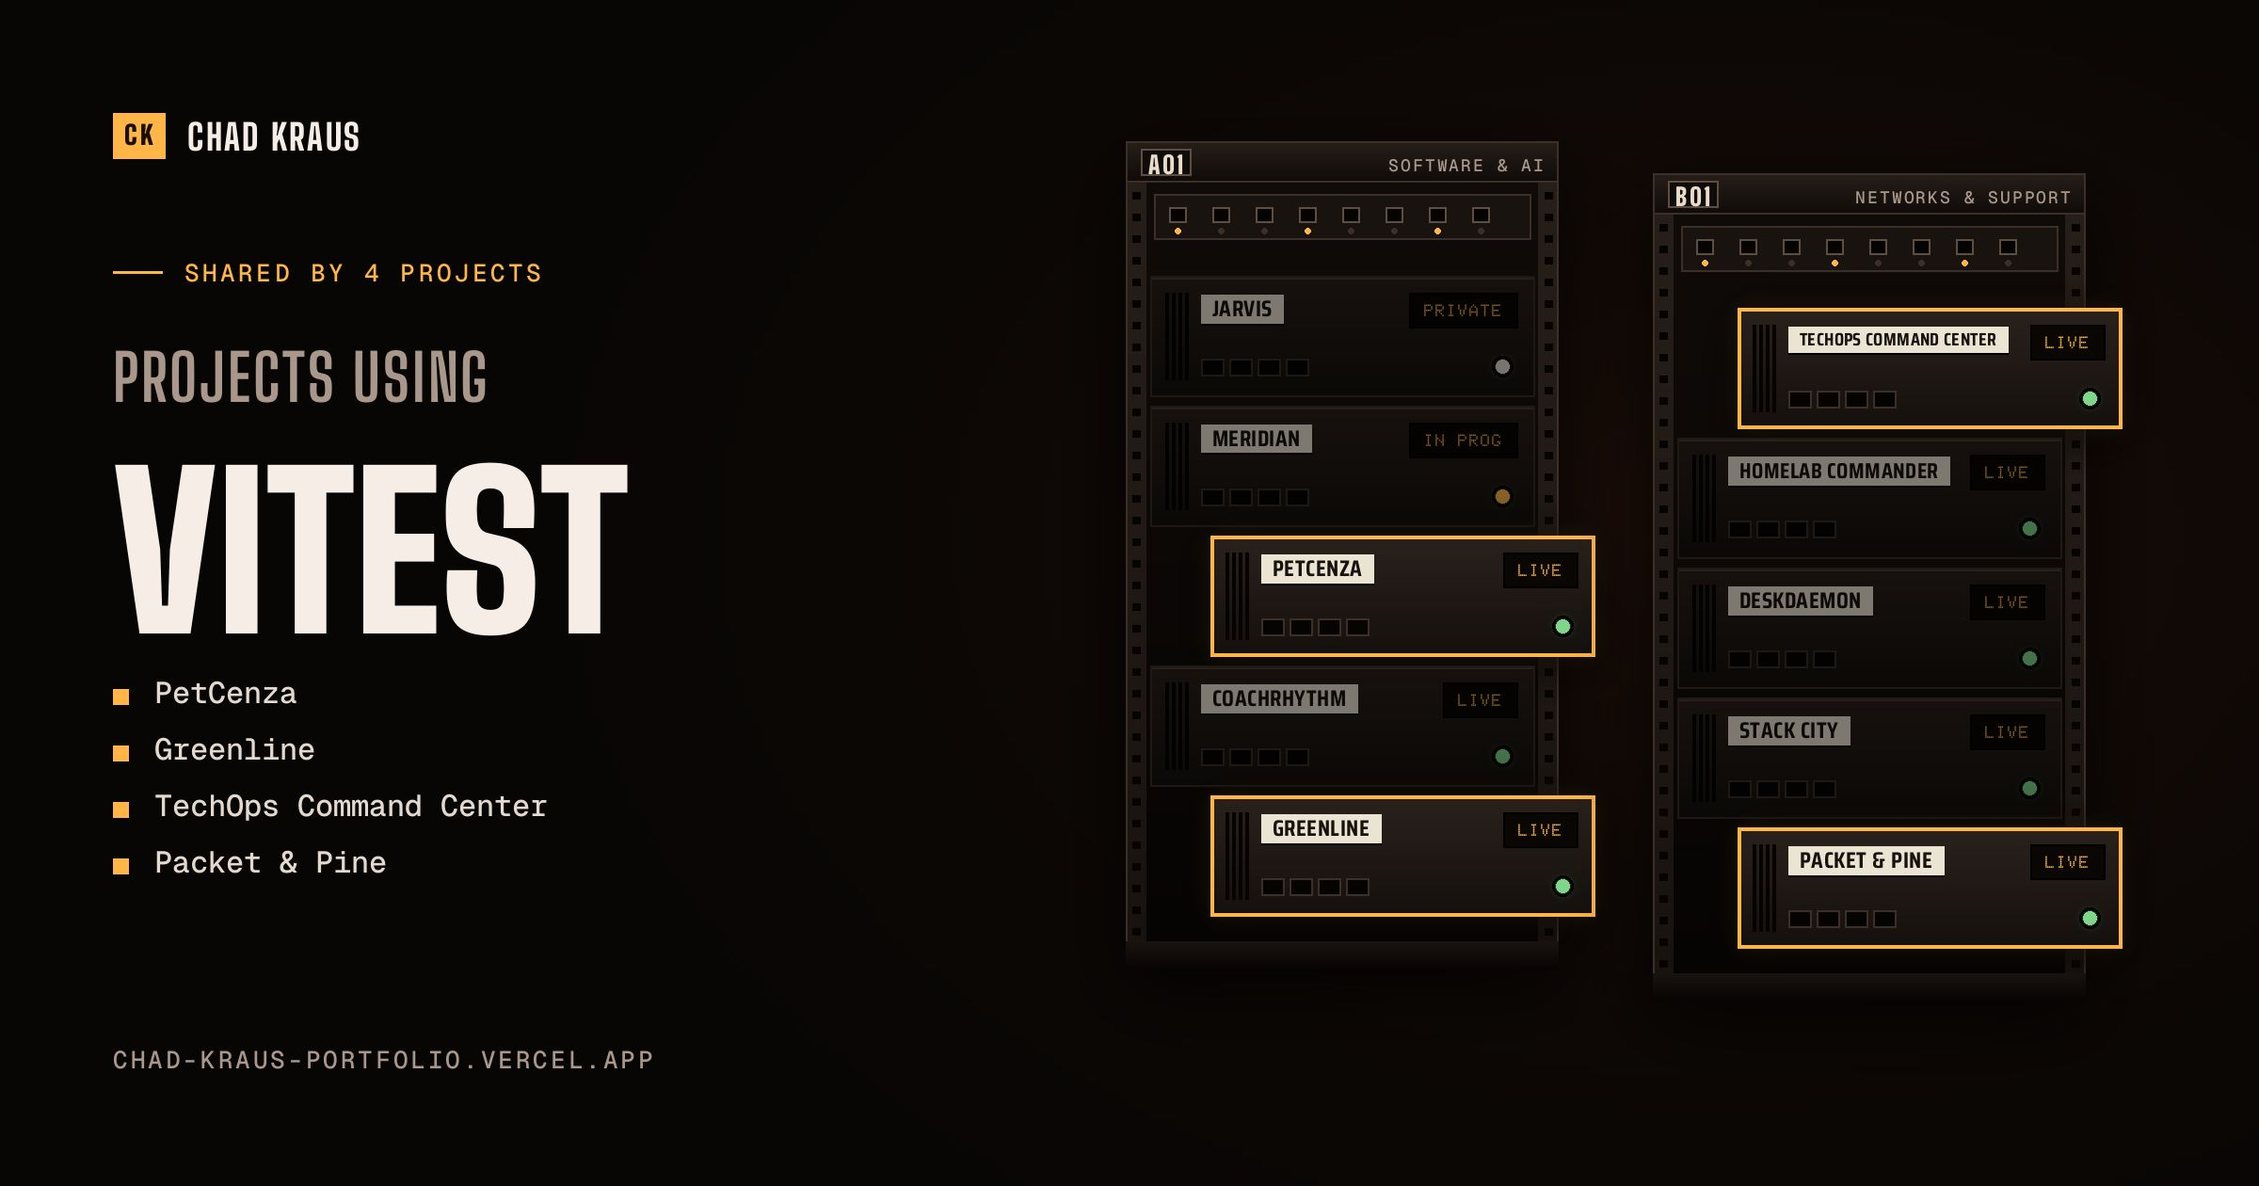
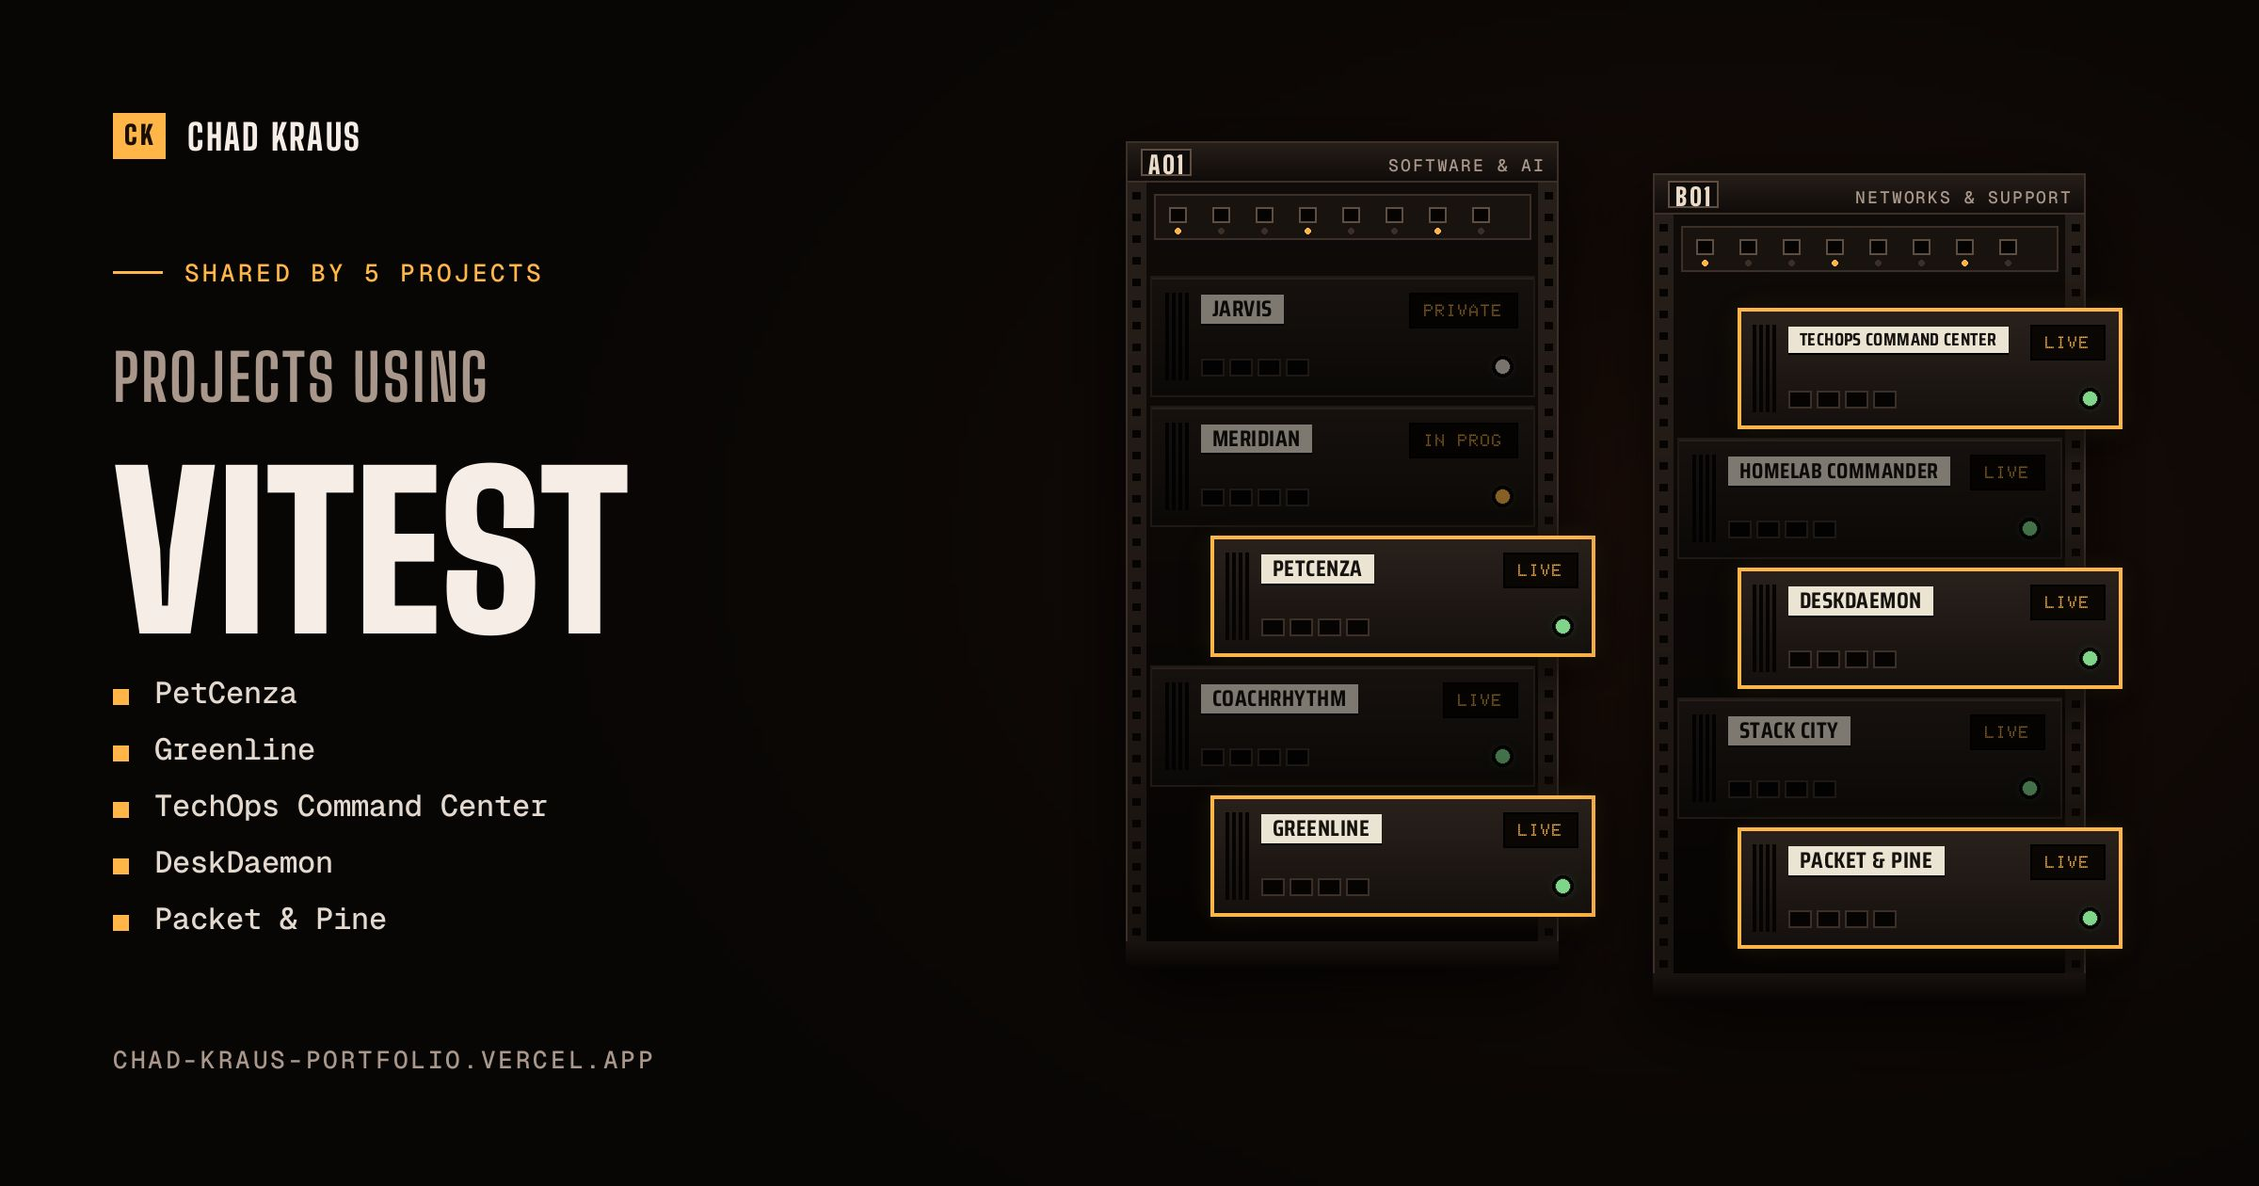
content: DeskDaemon rebuild; feat: audience window, health issue, console source
- DeskDaemon: strict CSP, vendored GSAP with no-JS fallbacks, /go redirects, 312 tests; drops the "zero client-side JavaScript" tagline, which is no longer true
- Regenerate DeskDaemon's cards and the Playwright and Vitest tool cards, which now list it
- /now names the window each ranking covers
- campaign-health.sh opens an issue after three failed GoatCounter reads in a row and closes it on the first clean one
- The room console answers "from <source>" with the unit that audience opens most

diff --git a/src/lib/serverRoom.js b/src/lib/serverRoom.js
@@ -20,7 +20,7 @@ const lerp = (a, b, t) => a + (b - a) * t;
 const DEFAULT_NOTE = 'This project isn’t publicly linked — it runs on private infrastructure.';
 const STATUS_COLOR = { Live: 'var(--live)', 'In progress': 'var(--accent)', Private: 'var(--private)' };
 
-export function mountServerRoom(root, { model, lenses, navigate, srcSetFor, formatUpdated, snapshot, onEvent = () => {} }) {
+export function mountServerRoom(root, { model, lenses, navigate, srcSetFor, formatUpdated, snapshot, audience = { leads: [], days: 30 }, onEvent = () => {} }) {
   const doc = root.ownerDocument;
   const win = doc.defaultView;
   const reduced = win.matchMedia('(prefers-reduced-motion: reduce)');
@@ -532,6 +532,14 @@ export function mountServerRoom(root, { model, lenses, navigate, srcSetFor, form
       return lens ? { cmd: 'lens', lens } : { cmd: 'unknown', text: raw };
     }
     if (verb === 'open') { const p = arg && projectBy(arg); return p ? { cmd: 'open', p } : { cmd: 'unknown', text: arg || raw }; }
+    // "from linkedin": the unit that audience opens most, from the anonymous counts the
+    // daily job ranks (src/data/audience.json). Nothing recorded yet says so plainly.
+    if (verb === 'from') {
+      if (!arg) return { cmd: 'unknown', text: raw };
+      const lead = (audience.leads ?? []).find((l) => l.source === arg);
+      const p = lead && P.find((x) => `/projects/${x.slug}` === lead.path);
+      return { cmd: 'from', source: arg, p };
+    }
     if (verb === 'signal' || verb === 'ping') { const t = arg && toolBy(arg); return t ? { cmd: 'signal', t } : { cmd: 'unknown', text: arg || raw }; }
     const t = toolBy(raw); if (t) return { cmd: 'signal', t };
     const p = projectBy(raw); if (p) return { cmd: 'open', p };
@@ -544,10 +552,12 @@ export function mountServerRoom(root, { model, lenses, navigate, srcSetFor, form
     const [verb, ...rest] = raw.split(' '); const arg = rest.join(' ');
     const tools = TOOLS.map((t) => t.toLowerCase()); const names = P.map((p) => p.title.toLowerCase());
     const out = [];
-    if (verb === 'signal' || verb === 'ping') tools.filter((t) => t.includes(arg)).forEach((t) => out.push(`signal ${t}`));
+    if (verb === 'from') (audience.leads ?? []).map((l) => l.source).filter((s) => s.includes(arg)).forEach((s) => out.push(`from ${s}`));
+    else if (verb === 'signal' || verb === 'ping') tools.filter((t) => t.includes(arg)).forEach((t) => out.push(`signal ${t}`));
     else if (verb === 'open') names.filter((n) => n.includes(arg)).forEach((n) => out.push(`open ${n}`));
     else {
       ['help', 'hire', 'heat', 'sound', 'clear', 'rack a', 'rack b', 'rack all', 'exit'].filter((c) => c.startsWith(raw)).forEach((c) => out.push(c));
+      (audience.leads ?? []).map((l) => `from ${l.source}`).filter((c) => c.startsWith(raw)).forEach((c) => out.push(c));
       tools.filter((t) => t.includes(raw)).forEach((t) => out.push(`signal ${t}`));
       names.filter((n) => n.includes(raw)).forEach((n) => out.push(`open ${n}`));
     }
@@ -589,7 +599,7 @@ export function mountServerRoom(root, { model, lenses, navigate, srcSetFor, form
     logLine(`$ ${text}`, 'cmd');
     state.preview = null;
     if (!r) return;
-    if (r.cmd === 'help') logLine('hire · signal <tool> · open <project> · rack a | b | all · heat · sound · clear · exit');
+    if (r.cmd === 'help') logLine('hire · signal <tool> · open <project> · from <source> · rack a | b | all · heat · sound · clear · exit');
     else if (r.cmd === 'clear') logEl.textContent = '';
     else if (r.cmd === 'reset') { overview(); closeKvm(); }
     else if (r.cmd === 'hire') { showHire(); logLine('↳ operator snapshot on screen: print it or grab the PDF', 'ok'); }
@@ -598,6 +608,10 @@ export function mountServerRoom(root, { model, lenses, navigate, srcSetFor, form
     else if (r.cmd === 'lens') { setLens(r.lens); logLine(r.lens === 'all' ? 'both racks lit' : `${lenses[r.lens].name} lens: ${lenses[r.lens].slugs.length} units lit`, 'ok'); }
     else if (r.cmd === 'open') { selectUnit(r.p.i); logLine(`↳ ${r.p.title} pulled from rack ${rackOf(r.p.rack).code} · ${r.p.u}`, 'ok'); }
     else if (r.cmd === 'signal') { const ms = P.filter((p) => p.tools.has(r.t)); selectTool(r.t); logLine(`↳ ${ms.length} units lit: ${ms.map((m) => m.title).join(', ')}`, 'ok'); }
+    else if (r.cmd === 'from') {
+      if (!r.p) logLine(`no visits recorded from ${r.source} yet`, 'warn');
+      else { selectUnit(r.p.i); logLine(`↳ most opened from ${r.source} in the last ${audience.days} days: ${r.p.title}`, 'ok'); }
+    }
     else { logLine(`ping: ${r.text}: No route to host`, 'err'); logLine('try: signal supabase · open greenline · help'); }
     sync(); drawSoon();
   }

diff --git a/src/data/projects.js b/src/data/projects.js
@@ -307,17 +307,19 @@ export const projects = [
     category: 'Infrastructure & Ops',
     status: 'Live',
     updated: '2026-09',
-    tagline: 'Astro · zero client-side JavaScript',
+    tagline: 'Strict CSP · every effect has a no-JS fallback',
     summary:
-      'The link-in-bio and gear site for @deskdaemon — the workstation, the home lab, and the tools behind the videos. Built deliberately without a client-side framework.',
+      'The link-in-bio, gear list and builds site for @deskdaemon — the workstation, the home lab, and the tools behind the videos. Every gear item carries what it cost and a verdict, including the ones not worth buying again, and every build has a write-up.',
     details:
-      'Astro with static output by default; exactly three routes render on demand — the home page, so the email signup still returns a real result with JavaScript disabled, the /go/[slug] redirects, and the subscribe handler. Everything else is prerendered at build time. Styling is plain CSS with custom properties: no Tailwind, no UI kit. Inter and JetBrains Mono are self-hosted as latin-subset woff2 rather than pulled from a font CDN, so a visitor loads the page without a single third-party request.',
-    stack: ['Astro', 'TypeScript', 'Plain CSS', 'Vercel'],
+      'The page an Instagram or TikTok profile lands on, so mobile Lighthouse was the bar. Astro with plain CSS, one accent colour, and contrast measured against WCAG 2.1 AA rather than assumed. Every outbound link goes through a /go/<slug> redirect that can only reach destinations listed in one file, and clicks are counted server-side with no cookies. The Content-Security-Policy allows scripts and styles from the site\'s own origin only — no inline scripts, no CDN, no unsafe-*, which is why GSAP is vendored rather than loaded. Motion is CSS and native view transitions, with GSAP only for the home scroll sequence and the gear filter; every effect falls back cleanly with JavaScript off, reduced motion on, or GSAP blocked. Email signup sits behind a provider-agnostic function with a honeypot and a rate limit, and photos have their GPS metadata stripped at build. 124 Vitest unit tests and 188 Playwright tests, including axe accessibility scans, run in CI on every push.',
+    stack: ['Astro', 'TypeScript', 'Plain CSS', 'GSAP', 'Vitest', 'Playwright + axe', 'Vercel'],
     architecture: [
-      { layer: "Build", items: ["Astro, static output by default", "Everything except three routes prerendered at build time"] },
-      { layer: "On-demand routes", items: ["Home page, so the signup works without JavaScript", "/go/[slug] redirects", "Subscribe handler"] },
-      { layer: "Styling", items: ["Plain CSS with custom properties; no Tailwind, no UI kit"] },
-      { layer: "Fonts and requests", items: ["Inter and JetBrains Mono self-hosted as latin-subset woff2", "No third-party requests on page load"] },
+      { layer: "Build", items: ["Astro with plain CSS and one accent colour", "Contrast measured against WCAG 2.1 AA, not assumed", "GSAP vendored, because the CSP allows no CDN"] },
+      { layer: "Outbound links", items: ["/go/<slug> redirects, limited to destinations listed in one file", "Clicks counted server-side, with no cookies"] },
+      { layer: "Content-Security-Policy", items: ["Scripts and styles from the site's own origin only", "No inline scripts, no CDN, no unsafe-*"] },
+      { layer: "Motion", items: ["CSS and native view transitions", "GSAP only for the home scroll sequence and the gear filter", "Every effect falls back with JavaScript off, reduced motion on, or GSAP blocked"] },
+      { layer: "Signup and photos", items: ["Provider-agnostic function with a honeypot and a rate limit", "GPS metadata stripped from photos at build"] },
+      { layer: "Tests", items: ["124 Vitest unit tests", "188 Playwright tests, including axe accessibility scans", "Both run in CI on every push"] },
       { layer: "Hosting", items: ["Vercel"] },
     ],
     image: DeskDaemon,

diff --git a/src/data/toolSlugs.js b/src/data/toolSlugs.js
@@ -1,5 +1,5 @@
 // Generated by scripts/prerender.mjs: tools shared by more than one project, as used in
 // /portfolio?tool=<slug>. middleware.js reads the slugs; scripts/make-og-images.py reads
 // the list to draw each tool's share card. Do not edit by hand.
-export const TOOLS = [{"slug":"claude-api","name":"Claude API","projects":["jarvis","coachrhythm"]},{"slug":"docker","name":"Docker","projects":["jarvis","meridian","homelab-commander"]},{"slug":"next-js","name":"Next.js","projects":["meridian","coachrhythm","techops-command-center","homelab-commander","stack-city"]},{"slug":"playwright","name":"Playwright","projects":["meridian","petcenza","coachrhythm","greenline","techops-command-center","homelab-commander"]},{"slug":"pwa","name":"PWA","projects":["petcenza","greenline"]},{"slug":"react","name":"React","projects":["petcenza","greenline","stack-city"]},{"slug":"recharts","name":"Recharts","projects":["greenline","techops-command-center","homelab-commander"]},{"slug":"supabase","name":"Supabase","projects":["petcenza","coachrhythm","greenline"]},{"slug":"tailwind-css","name":"Tailwind CSS","projects":["techops-command-center","stack-city"]},{"slug":"vercel","name":"Vercel","projects":["deskdaemon","packet-and-pine"]},{"slug":"vite","name":"Vite","projects":["greenline","packet-and-pine"]},{"slug":"vitest","name":"Vitest","projects":["petcenza","greenline","techops-command-center","packet-and-pine"]}];
+export const TOOLS = [{"slug":"claude-api","name":"Claude API","projects":["jarvis","coachrhythm"]},{"slug":"docker","name":"Docker","projects":["jarvis","meridian","homelab-commander"]},{"slug":"next-js","name":"Next.js","projects":["meridian","coachrhythm","techops-command-center","homelab-commander","stack-city"]},{"slug":"playwright","name":"Playwright","projects":["meridian","petcenza","coachrhythm","greenline","techops-command-center","homelab-commander","deskdaemon"]},{"slug":"pwa","name":"PWA","projects":["petcenza","greenline"]},{"slug":"react","name":"React","projects":["petcenza","greenline","stack-city"]},{"slug":"recharts","name":"Recharts","projects":["greenline","techops-command-center","homelab-commander"]},{"slug":"supabase","name":"Supabase","projects":["petcenza","coachrhythm","greenline"]},{"slug":"tailwind-css","name":"Tailwind CSS","projects":["techops-command-center","stack-city"]},{"slug":"vercel","name":"Vercel","projects":["deskdaemon","packet-and-pine"]},{"slug":"vite","name":"Vite","projects":["greenline","packet-and-pine"]},{"slug":"vitest","name":"Vitest","projects":["petcenza","greenline","techops-command-center","deskdaemon","packet-and-pine"]}];
 export const TOOL_SLUGS = TOOLS.map((t) => t.slug);

diff --git a/e2e/site.spec.js b/e2e/site.spec.js
@@ -809,3 +809,23 @@ test('shift-dragging the sparkline compares two weeks', async ({ page }) => {
   await expect(page.locator('.sr')).not.toHaveClass(/is-compare/);
   await expect(page.locator('.sr-week-out')).not.toContainText(' vs ');
 });
+
+test('the console answers "from <source>" from the ranked visit data', async ({ page }) => {
+  const audience = JSON.parse(readFileSync('src/data/audience.json', 'utf8'));
+  await page.goto('/');
+  await page.getByRole('button', { name: /Console/ }).click();
+  const input = page.locator('#sr-kvm-q');
+  await input.fill('from linkedin');
+  await input.press('Enter');
+  const log = page.locator('.sr-kvm-log');
+  const lead = (audience.leads ?? []).find((l) => l.source === 'linkedin');
+  if (lead) {
+    await expect(log).toContainText('most opened from linkedin');
+  } else {
+    // Nothing ranked yet, and the console says so rather than inventing a unit.
+    await expect(log).toContainText('no visits recorded from linkedin yet');
+  }
+  await input.fill('help');
+  await input.press('Enter');
+  await expect(log).toContainText('from <source>');
+});

diff --git a/src/components/ServerRoom.jsx b/src/components/ServerRoom.jsx
@@ -8,6 +8,7 @@ import { STATUS_VFD, formatUpdated, formatDay } from '../lib/projectMeta.js';
 import { cardSrcSet } from '../lib/cardImages.js';
 import { mountServerRoom } from '../lib/serverRoom.js';
 import { BUILD_STAMP } from '../lib/build.js';
+import audience from '../data/audience.json';
 import resumePdf from '../assets/files/Chadwick_Kraus_Resume_2026.pdf';
 import './ServerRoom.css';
 
@@ -141,6 +142,7 @@ export default function ServerRoom() {
     navigate: (to) => navigateRef.current(to, { viewTransition: true }),
     srcSetFor: cardSrcSet,
     formatUpdated,
+    audience,
     snapshot: {
       name: profile.fullName,
       title: profile.title,

diff --git a/src/pages/Now.jsx b/src/pages/Now.jsx
@@ -101,7 +101,7 @@ export default function Now() {
                   {lead.project
                     ? <Link viewTransition to={lead.path}>{lead.project.title}</Link>
                     : <Link viewTransition to={lead.path}>{lead.path}</Link>}
-                  <span>Most opened from {lead.source}</span>
+                  <span>Most opened from {lead.source} in the last {audience.days} days</span>
                 </li>
               ))}
             </ul>

diff --git a/src/components/Shortcuts.jsx b/src/components/Shortcuts.jsx
@@ -20,6 +20,7 @@ const KEYS = [
 const COMMANDS = [
   ['hire', 'A printable one-page snapshot'],
   ['signal react', 'Light every project that uses a tool'],
+  ['from linkedin', 'Pull the unit that audience opens most'],
   ['open greenline', 'Pull a project out of its rack'],
   ['rack a · rack b · rack all', 'Switch lens'],
   ['heat', 'Commit heat on or off'],

diff --git a/CLAUDE.md b/CLAUDE.md
@@ -107,8 +107,12 @@ A personal developer portfolio. Vite + React 19, deployed on Vercel.
   trimmed body and exits 0 — never a failed job, and never a silent one.
 - `src/data/audience.json` is written by that same daily step (`--write`): the page each
   referrer opened most, rankings only, no visit numbers, and only above a floor of 5
-  visits. `/now` renders it as "What people open"; the build fails if a lead names a page
-  that doesn't exist. No cookies, no
+  visits. `/now` renders it as "What people open", naming the window it covers; the build
+  fails if a lead names a page that doesn't exist. The room console answers
+  `from <source>` by pulling that unit, and says plainly when nothing is ranked yet.
+  `scripts/campaign-health.sh` opens a "Visit summary is failing" issue once the
+  GoatCounter read has failed three runs in a row (counted from the previous runs' logs,
+  so no state is committed) and closes it on the first clean run. No cookies, no
   identifiers; invalid values are ignored. Counts are read in GoatCounter, not on the site.
 - Rack timeline: a sparkline of weekly commits sits above the slider; each bar is
   titled with its week and count, and can be clicked or dragged across to scrub (pointer

diff --git a/PRODUCT.md b/PRODUCT.md
@@ -113,7 +113,9 @@ project stories now live on the PetCenza and CoachRhythm case studies.
   opened and which one it started on, as anonymous counts only. The daily job can print
   those counts in its own run summary, so Chad never has to open an analytics dashboard,
   and `/now` can name the page each referrer opens most — a ranking only, never traffic
-  numbers, and only once a page clears a floor of five visits. The value is kept for the session in the browser, never in a
+  numbers, and only once a page clears a floor of five visits. The console answers
+  `from linkedin` with that unit, and a summary that keeps failing opens an issue instead
+  of going quiet. The value is kept for the session in the browser, never in a
   cookie, and the parameter is removed from the address so shared links stay clean.
 - Analytics are GoatCounter pageviews plus anonymous interaction counts (unit
   pulls, port signals, `hire`, copied links, printing, sound, tour). No cookies,

diff --git a/README.md b/README.md
@@ -189,7 +189,8 @@ middleware.js            Vercel Routing Middleware: share previews for ?unit= li
   plus one recording the page they landed on, so the counts separate a profile link from a
   post link. The parameter is stripped from the URL, and the daily job can summarise the
   counts in its run summary when a GoatCounter API token is configured, and writes the
-  most-opened page per source to `/now` as a ranking (no visit numbers).
+  most-opened page per source to `/now` as a ranking (no visit numbers), opens an issue if
+  it fails three days running, and answers `from <source>` in the room console.
 - **Rack timeline** — a sparkline of commits per week sits above the slider, with the
   chosen week lit; drag across it (hold Shift to compare two weeks) or scrub with the
   arrow keys, or press Replay to watch twelve weeks of commits,
